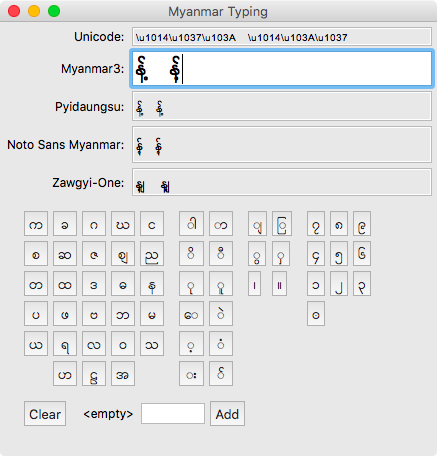
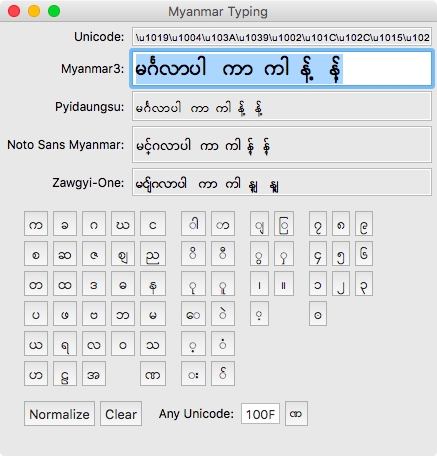
add ICU normalization

diff --git a/src/samples/myanmar/swt/MMTypingWithWindowBuilder.java b/src/samples/myanmar/swt/MMTypingWithWindowBuilder.java
@@ -21,6 +21,8 @@ import org.eclipse.swt.widgets.Shell;
 import org.eclipse.swt.widgets.Text;
 import org.eclipse.wb.swt.SWTResourceManager;
 
+import com.ibm.icu.text.Normalizer2;
+
 import samples.myanmar.MM;
 import samples.myanmar.MMKey;
 
@@ -42,7 +44,7 @@ import samples.myanmar.MMKey;
  */
 public class MMTypingWithWindowBuilder {
 
-	private String defaultText = "\u1000\u102c  \u1000\u102b  \u1014\u1037\u103A   \u1014\u103A\u1037";
+	private String defaultText = "\u1019\u1004\u103A\u1039\u1002\u101C\u102C\u1015\u102B   \u1000\u102c  \u1000\u102b  \u1014\u1037\u103A   \u1014\u103A\u1037";
 	protected Shell shlMyanmarTyping;
 	private SelectionListener listener = new SelectionListener() {
 
@@ -88,10 +90,12 @@ public class MMTypingWithWindowBuilder {
 				if (t.length() == 4) {
 					int i = Integer.parseInt(t, 16);
 					String s = Character.toString((char) i);
-					lblNewLabel_2.setText(s);
+					btnAdd.setText(s);
+				} else {
+					btnAdd.setText("?");
 				}
 			} catch (Throwable th) {
-				text_5.setText("");
+				btnAdd.setText("?");
 			}
 		}
 	};
@@ -202,6 +206,9 @@ public class MMTypingWithWindowBuilder {
 	private Text text_5;
 	private Button btnAdd;
 	private Label lblNewLabel_2;
+	private Button button_3;
+	private Button button_4;
+	private Button button_5;
 
 	private void initialize() {
 		List<Control> children = new ArrayList<>(Arrays.asList(shlMyanmarTyping.getChildren()));
@@ -229,6 +236,7 @@ public class MMTypingWithWindowBuilder {
 		text_4.setEditable(false);
 		text.setFocus();
 		text.setText(defaultText);
+		text_5.setText("100F");
 	}
 
 	/**
@@ -289,6 +297,7 @@ public class MMTypingWithWindowBuilder {
 		text_1.setLayoutData(new GridData(SWT.FILL, SWT.CENTER, true, false, 1, 1));
 
 		composite_1 = new Composite(shlMyanmarTyping, SWT.NONE);
+		composite_1.setFont(SWTResourceManager.getFont("Myanmar3", 11, SWT.NORMAL));
 		composite_1.setLayout(new GridLayout(5, false));
 		GridData gd_composite_1 = new GridData(SWT.FILL, SWT.FILL, true, true, 2, 1);
 		gd_composite_1.heightHint = 73;
@@ -398,7 +407,6 @@ public class MMTypingWithWindowBuilder {
 		btn25 = new Button(composite, SWT.FLAT);
 		btn25.setText(MM.SA);
 		btn25.setLayoutData(new GridData(GridData.FILL, GridData.FILL, true, true));
-		new Label(composite, SWT.NONE);
 
 		btn26 = new Button(composite, SWT.FLAT);
 		btn26.setText(MM.HA);
@@ -411,6 +419,9 @@ public class MMTypingWithWindowBuilder {
 		btn28.setText(MM.A);
 		btn28.setLayoutData(new GridData(GridData.FILL, GridData.FILL, true, true));
 		new Label(composite, SWT.NONE);
+
+		button_5 = new Button(composite, SWT.FLAT);
+		button_5.setText(MM.NNA);
 
 		composite_2 = new Composite(composite_1, SWT.NONE);
 		composite_2.setLayoutData(new GridData(SWT.LEFT, SWT.TOP, false, false, 1, 1));
@@ -475,16 +486,26 @@ public class MMTypingWithWindowBuilder {
 		btnSign15.setText(MM.SIGN_MEDIAL_RA);
 
 		btnSign16 = new Button(btnSign13, SWT.FLAT);
+		btnSign16.setLayoutData(new GridData(SWT.FILL, SWT.CENTER, false, false, 1, 1));
 		btnSign16.setText(MM.SIGN_MEDIAL_WA);
 
 		btnSign17 = new Button(btnSign13, SWT.FLAT);
+		btnSign17.setLayoutData(new GridData(SWT.FILL, SWT.CENTER, false, false, 1, 1));
 		btnSign17.setText(MM.SIGN_MEDIAL_HA);
 
 		button_1 = new Button(btnSign13, SWT.FLAT);
+		button_1.setLayoutData(new GridData(SWT.FILL, SWT.FILL, false, false, 1, 1));
 		button_1.setText(MM.SIGN_LITTLE_SECTION);
 
 		button_2 = new Button(btnSign13, SWT.FLAT);
+		button_2.setLayoutData(new GridData(SWT.FILL, SWT.FILL, false, false, 1, 1));
 		button_2.setText(MM.SIGN_SECTION);
+
+		button_4 = new Button(btnSign13, SWT.FLAT);
+		button_4.setFont(SWTResourceManager.getFont("Myanmar3", 11, SWT.NORMAL));
+		button_4.setLayoutData(new GridData(SWT.FILL, SWT.CENTER, false, false, 1, 1));
+		button_4.setText(MM.SIGN_VIRAMA);
+		new Label(btnSign13, SWT.NONE);
 
 		composite_4 = new Composite(composite_1, SWT.NONE);
 		composite_4.setLayoutData(new GridData(SWT.LEFT, SWT.TOP, false, false, 1, 1));
@@ -524,10 +545,20 @@ public class MMTypingWithWindowBuilder {
 		new Label(composite_1, SWT.NONE);
 
 		composite_3 = new Composite(composite_1, SWT.NONE);
-		GridData gd_composite_3 = new GridData(SWT.FILL, SWT.CENTER, false, false, 3, 1);
+		GridData gd_composite_3 = new GridData(SWT.FILL, SWT.CENTER, false, false, 4, 1);
 		gd_composite_3.widthHint = 102;
 		composite_3.setLayoutData(gd_composite_3);
-		composite_3.setLayout(new GridLayout(5, false));
+		composite_3.setLayout(new GridLayout(6, false));
+
+		button_3 = new Button(composite_3, SWT.FLAT);
+		button_3.addSelectionListener(new SelectionAdapter() {
+			@Override
+			public void widgetSelected(SelectionEvent arg0) {
+				String normalizeStr = Normalizer2.getNFDInstance().normalize(text.getText());
+				text.setText(normalizeStr);
+			}
+		});
+		button_3.setText("Normalize");
 
 		button = new Button(composite_3, SWT.FLAT);
 		button.addSelectionListener(new SelectionAdapter() {
@@ -541,22 +572,27 @@ public class MMTypingWithWindowBuilder {
 
 		lblNewLabel_2 = new Label(composite_3, SWT.NONE);
 		lblNewLabel_2.setAlignment(SWT.RIGHT);
-		lblNewLabel_2.setText("<empty>");
+		lblNewLabel_2.setText("Any Unicode:");
 		lblNewLabel_2.setLayoutData(new GridData(SWT.RIGHT, SWT.CENTER, false, false, 1, 1));
 
 		text_5 = new Text(composite_3, SWT.BORDER);
 
 		btnAdd = new Button(composite_3, SWT.FLAT);
+		btnAdd.setFont(SWTResourceManager.getFont("Myanmar3", 11, SWT.NORMAL));
 		btnAdd.addSelectionListener(new SelectionAdapter() {
 			@Override
 			public void widgetSelected(SelectionEvent e) {
-				String t = lblNewLabel_2.getText();
+				String t = btnAdd.getText();
 				if (t.length() == 1) {
 					text.append(t);
 				}
 			}
 		});
 		btnAdd.setText("Add");
+		new Label(composite_1, SWT.NONE);
+		new Label(composite_1, SWT.NONE);
+		new Label(composite_1, SWT.NONE);
+		new Label(composite_1, SWT.NONE);
 		new Label(composite_1, SWT.NONE);
 
 		new Label(shlMyanmarTyping, SWT.NONE);

diff --git a/src/samples/myanmar/MM.java b/src/samples/myanmar/MM.java
@@ -1,6 +1,28 @@
 package samples.myanmar;
 
 public class MM {
+
+	public static String convertJavaHexString(String text) {
+		StringBuffer buf = new StringBuffer();
+		for (int i = 0; i < text.length(); i++) {
+			char ch = text.charAt(i);
+			buf.append("\\u");
+			buf.append(Integer.toHexString(ch).toUpperCase());
+		}
+		return buf.toString();
+	}
+
+	public static String convertJavaScriptHexString(String text) {
+		StringBuffer buf = new StringBuffer();
+		for (int i = 0; i < text.length(); i++) {
+			char ch = text.charAt(i);
+			buf.append("&#x");
+			buf.append(Integer.toHexString(ch).toUpperCase());
+			buf.append(";");
+		}
+		return buf.toString();
+	}
+
 	// 1000 - 1021
 	public static final String KA = "\u1000";
 	public static final String KHA = "\u1001";

diff --git a/README.md b/README.md
@@ -1,41 +1,61 @@
 # practice-myanmar
 
-
-### Rendering Testing
-Browser can show MM unicode font correctly.
-ブラウザでのみ正確に表示できる。
-&#x1000;&#x102c;  &#x1000;&#x102b;  &#x1014;&#x1037;&#x103A;    &#x1014;&#x103A;&#x1037;
-
-#### Using HTML on Chrome and Firefox
-![image](src/samples/myanmar/test/doc-files/MMTestHTML.png)
-#### Using SWT
-
-![image](src/samples/myanmar/test/doc-files/MMTestSwt2.png)
-
-![image](src/samples/myanmar/test/doc-files/MMTestSwt.png)
-
-#### Using Java FX
-![image](src/samples/myanmar/test/doc-files/MMTestFx.png)
-#### Using Java FX with WebView
-![image](src/samples/myanmar/test/doc-files/MMTestFxWebView.png)
-#### Using Swing
-![image](src/samples/myanmar/test/doc-files/MMTestSwing.png)
-
-
 ### Myanmar Unicode
 
 http://unicode.org/charts/PDF/U1000.pdf
 
 
+### Normalization
+
+We need ICU(International Components for Unicode) normalization for correct rendering.
+
+http://site.icu-project.org/
+
+This sample uses icu4j-56_1.jar.
+
+```
+String normalizeStr = Normalizer2.getNFDInstance().normalize(text.getText());
+```
+
+##### Wrong sorting (SWT rendering)
+
+![image](src/samples/myanmar/swt/doc-files/MMTest_Wrong.png)
+
+##### Normalized (SWT rendering)
+
+![image](src/samples/myanmar/swt/doc-files/MMTest_Normalized.png)
+
 ### Prototype Typing Software for Myanmar font
 
-#### Using SWT
-![image](src/samples/myanmar/swt/doc-files/MMTyping.png)
-
-#### Using SWT with WindowBuilder
+#### SWT with WindowBuilder
 ![image](src/samples/myanmar/swt/doc-files/MMTypingWithWindowBuilder.png)
 
 
-#### Using Java FX
-![image](src/samples/myanmar/javafx/doc-files/ApplicationMain.png)
+-----
 
+### Rendering Testing
+
+#### Rendering on Chrome and Firefox
+![image](src/samples/myanmar/test/doc-files/MMTestHTML.png)
+
+#### Rendering on SWT
+
+![image](src/samples/myanmar/test/doc-files/MMTestSwt.png)
+
+#### Rendering on Java FX
+![image](src/samples/myanmar/test/doc-files/MMTestFx.png)
+#### Rendering on Java FX with WebView
+![image](src/samples/myanmar/test/doc-files/MMTestFxWebView.png)
+#### Rendering on Swing
+![image](src/samples/myanmar/test/doc-files/MMTestSwing.png)
+
+-----
+
+### Others
+
+#### SWT prototype
+![image](src/samples/myanmar/swt/doc-files/MMTyping.png)
+
+
+#### Java FX prototype
+![image](src/samples/myanmar/javafx/doc-files/ApplicationMain.png)
